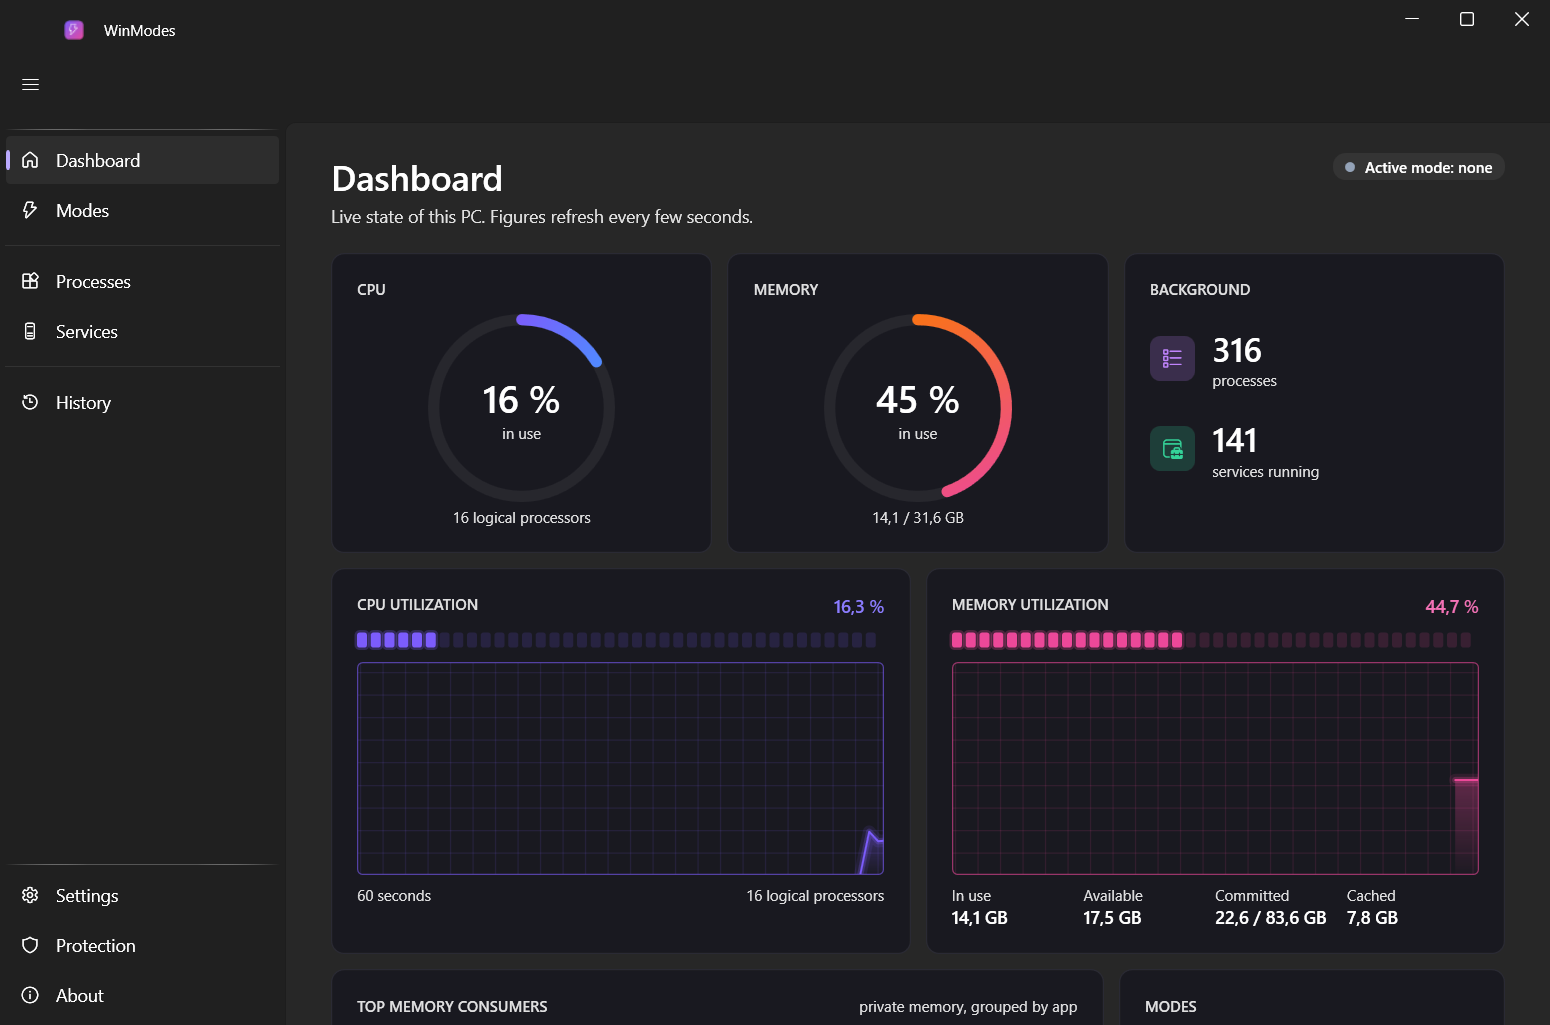
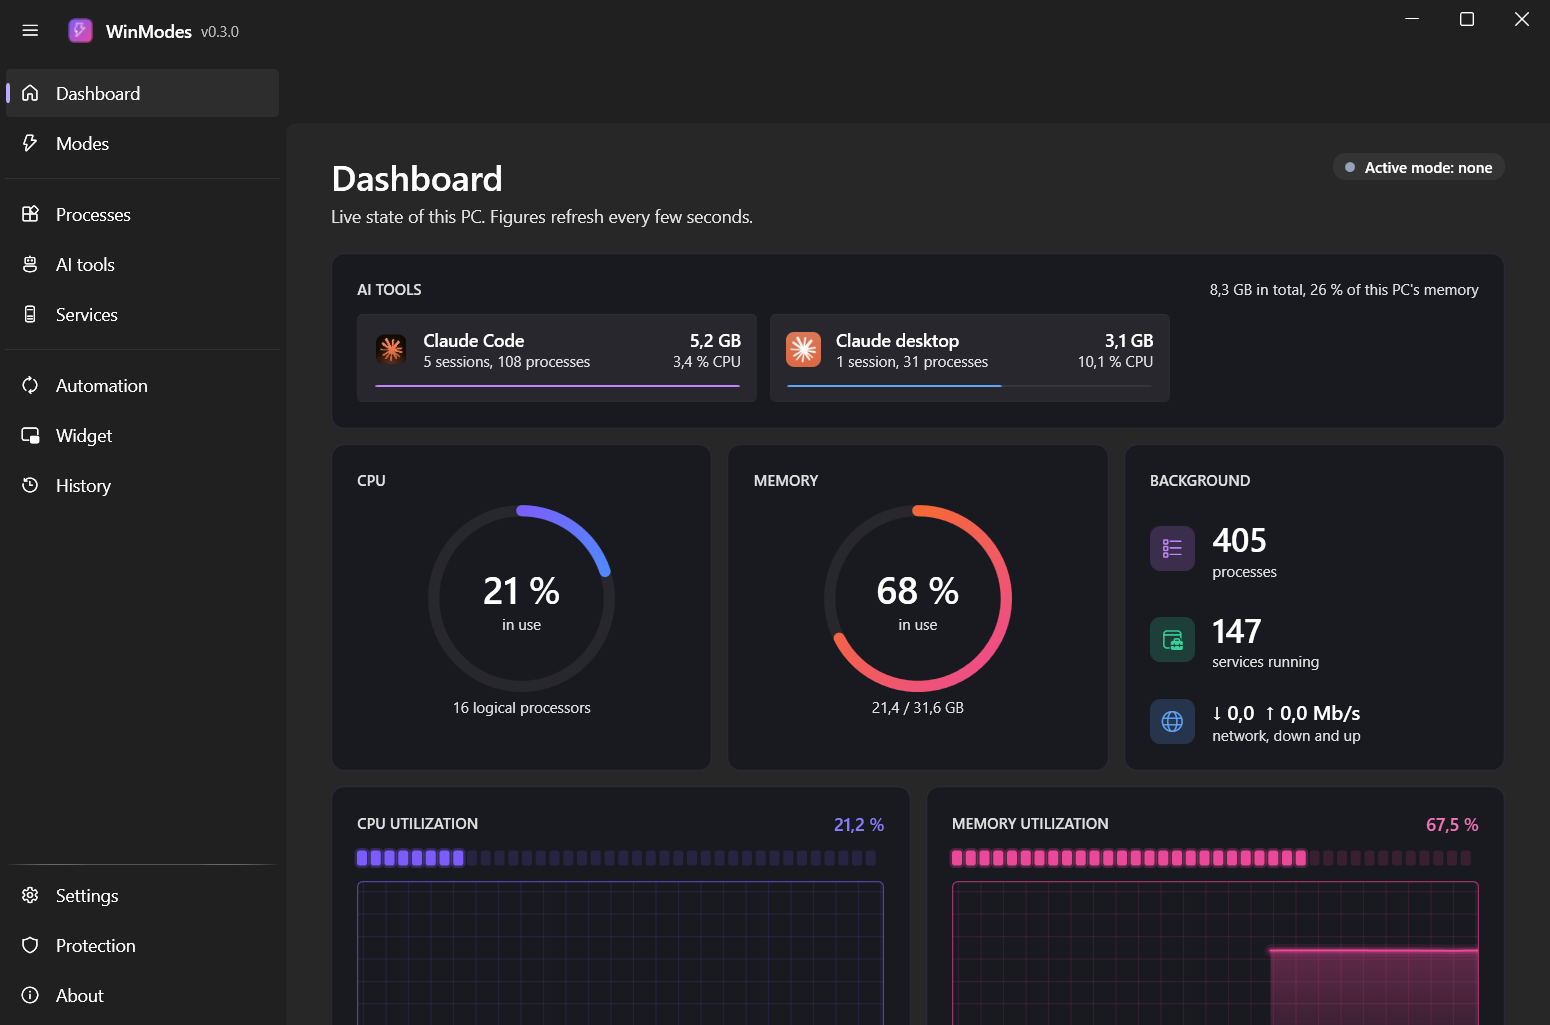
Update the README and screenshots, taken in privacy mode

diff --git a/README.md b/README.md
@@ -6,7 +6,9 @@ WinModes switches your PC between modes (Code, Work, Game) to free memory and cu
 
 ![Dashboard](images/dashboard.png)
 
-> **Status: early version (0.1.0).** It works on the author's machine and is covered by automated tests, but it has not been tested on many PCs. Read [Safety](#safety) before activating a mode.
+> **Status: early version.** It works on the author's machine and is covered by automated tests, but it has not been tested on many PCs. Read [Safety](#safety) before activating a mode.
+>
+> The screenshots are taken in privacy mode: project names, folders and command lines are hidden.
 
 ## What it does
 
@@ -17,12 +19,26 @@ WinModes switches your PC between modes (Code, Work, Game) to free memory and cu
 - **Processes page**: process tree with child processes, PID, CPU, memory, threads and command line; search, sort, and a right-click menu (end task, end process tree, open file location, copy).
 - **AI tools page**: every running session of Claude Code, Claude desktop, Codex, Cursor, VS Code and others, with the project folder it works in and all the processes it started.
 - **Services page**: search, filters, real app icons, and a lock on everything that is protected.
-- **Tray meter and desktop widget** (both optional): the notification-area icon can show the memory used by AI tools, and a small always-on-top panel shows CPU, memory and AI tools.
-- **Settings**: start with Windows, start minimized, keep running in the notification area, activate a mode at startup.
+- **Automation** (optional, off by default): rules such as "when `cs2.exe` runs, activate Game mode", undone when the program closes.
+- **Tray meter and desktop widget** (both optional): the notification-area icon can show the memory used by AI tools, and a small panel on the desktop shows CPU, memory, network and AI tools. The Widget page sets its content, size, opacity and position, with a live preview.
+- **Privacy mode**: hides project names, folders, command-line details and your account name, for screen sharing and screenshots.
+- **Welcome guide** on first run, and a **Settings** page: start with Windows, start minimized, keep running in the notification area, shortcuts, memory alert, WSL memory limit.
 
-| Modes | Processes | Settings |
-|---|---|---|
-| ![Modes](images/modes.png) | ![Processes](images/processes.png) | ![Settings](images/settings.png) |
+| Modes | AI tools |
+|---|---|
+| ![Modes](images/modes.png) | ![AI tools](images/ai-tools.png) |
+
+| Processes | Services |
+|---|---|
+| ![Processes](images/processes.png) | ![Services](images/services.png) |
+
+| Automation | Widget |
+|---|---|
+| ![Automation](images/automation.png) | ![Widget](images/widget.png) |
+
+| Welcome guide | Settings |
+|---|---|
+| ![Welcome guide](images/welcome.png) | ![Settings](images/settings.png) |
 
 ## Safety
 
@@ -44,13 +60,23 @@ Other rules enforced by the engine:
 Known limitations:
 
 - **Work and Game modes shut down WSL and Docker Desktop.** Running containers and WSL sessions end. Undo does not restart them, and it does not reopen closed apps.
-- **No installer yet.** When run from a build folder, the elevated helper reads the profiles from that folder, which any program running as you could modify. Do not treat a development build as hardened.
+- **The packages are not code-signed yet.** Windows SmartScreen warns on first launch ("Windows protected your PC"); choose *More info*, then *Run anyway*, or build from source.
+- **Portable and development builds are not hardened.** There, the elevated helper reads the protected list and the profiles from the app folder, which any program running as you could modify. The installer puts the protected list under Program Files, where changing it needs administrator rights; only the mode profiles stay editable, and the protected list is enforced whatever a profile says.
+- Automatic switching still shows the Windows permission prompt at each switch.
 - The profiles in `profiles/` were generated for one machine (an HP OMEN laptop). Generate your own, see below.
 - The interface is in English and dark only.
 
 ## Download
 
-Get the latest `WinModes-vX.Y.Z-win-x64.zip` from the [Releases page](https://github.com/LinkPhoenix/winmodes/releases), extract it and run `WinModes.exe`. No installation or .NET runtime is needed. See the [changelog](CHANGELOG.md).
+From the [Releases page](https://github.com/LinkPhoenix/winmodes/releases):
+
+| File | Use |
+|---|---|
+| `WinModes-vX.Y.Z-setup-win-x64.exe` | Installer. Installs into Program Files, adds a Start menu entry and an uninstaller. Uninstalling first undoes the active mode. |
+| `WinModes-vX.Y.Z-portable-win-x64.zip` | Portable. Extract anywhere and run `WinModes.exe`; nothing is installed. |
+| `SHA256SUMS.txt` | Checksums of both files. |
+
+Neither needs the .NET runtime. See the [changelog](CHANGELOG.md).
 
 ## Requirements
 
@@ -98,7 +124,13 @@ List the changes under **Unreleased** in `CHANGELOG.md`, then:
 pwsh -NoProfile -File tools/release.ps1 -Bump minor
 ```
 
-The script runs the tests, updates the version and the changelog, commits, tags and pushes. The release workflow then builds the self-contained package and publishes the GitHub release. Add `-DryRun` to preview without changing anything.
+The script runs the tests, updates the version and the changelog, commits, tags and pushes. The release workflow then builds the installer and the portable zip and publishes the GitHub release. Add `-DryRun` to preview without changing anything.
+
+To build the packages locally (the installer needs [Inno Setup](https://jrsoftware.org/isinfo.php) 6 or 7):
+
+```bash
+pwsh -NoProfile -File tools/package.ps1 -Version 0.3.0
+```
 
 ## Project layout
 
@@ -111,6 +143,7 @@ The script runs the tests, updates the version and the changelog, commits, tags 
 | `tests/` | xUnit tests; the engine is tested against fake services |
 | `data/` | Knowledge base and protection blocklist |
 | `profiles/` | Generated mode profiles and the hand-edited `modes.manual.json` |
+| `installer/` | Inno Setup script |
 | `research/` | Study of other optimizers and UI research |
 
 ## Support
